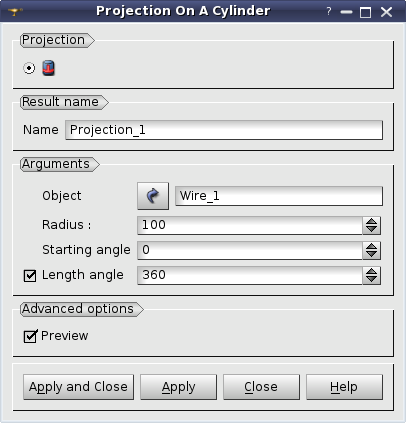
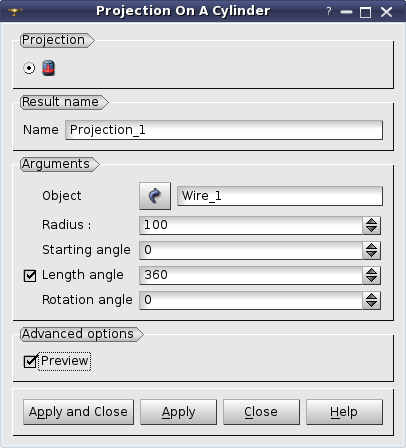
0022776: [CEA 1269] Project a wire or a face on a cylinder: add rotation angle

Changed region(s): [[0.0, 0.0, 1.0, 0.9835]]

diff --git a/src/GEOMGUI/GEOM_msg_en.ts b/src/GEOMGUI/GEOM_msg_en.ts
@@ -7572,5 +7572,9 @@ Do you want to create new material?</translation>
         <source>GEOM_PROJ_ON_CYL_LENGTH_ANGLE</source>
         <translation>Length angle</translation>
     </message>
+    <message>
+        <source>GEOM_PROJ_ON_CYL_ROTATION_ANGLE</source>
+        <translation>Rotation angle</translation>
+    </message>
 </context>
 </TS>

diff --git a/src/GEOM_SWIG/geomBuilder.py b/src/GEOM_SWIG/geomBuilder.py
@@ -9581,6 +9581,10 @@ class geomBuilder(object, GEOM._objref_GEOM_Gen):
         #         The angle in which to project the total length of the wire.
         #         If it is negative the projection is not scaled and natural
         #         wire length is kept for the projection.
+        #  @param theAngleRotation The desired angle in radians between
+        #         the tangent vector to the first curve at the first point of
+        #         the theObject's projection in 2D space and U-direction of
+        #         cylinder's 2D space.
         #  @param theName Object name; when specified, this parameter is used
         #         for result publication in the study. Otherwise, if automatic
         #         publication is switched on, default value is used for result name.
@@ -9592,6 +9596,7 @@ class geomBuilder(object, GEOM._objref_GEOM_Gen):
         #  @ref tui_projection "Example"
         def MakeProjectionOnCylinder (self, theObject, theRadius,
                                       theStartAngle=0.0, theAngleLength=-1.0,
+                                      theAngleRotation=0.0,
                                       theName=None):
             """
             Compute a wire or a face that represents a projection of the source
@@ -9608,6 +9613,10 @@ class geomBuilder(object, GEOM._objref_GEOM_Gen):
                         to project the total length of the wire. If it is negative the
                         projection is not scaled and natural wire length is kept for
                         the projection.
+                theAngleRotation The desired angle in radians between
+                        the tangent vector to the first curve at the first
+                        point of the theObject's projection in 2D space and
+                        U-direction of cylinder's 2D space.
                 theName Object name; when specified, this parameter is used
                         for result publication in the study. Otherwise, if automatic
                         publication is switched on, default value is used for result name.
@@ -9624,14 +9633,19 @@ class geomBuilder(object, GEOM._objref_GEOM_Gen):
             flagAngleLength = False
             if isinstance(theAngleLength,str):
                 flagAngleLength = True
-            theRadius, theStartAngle, theAngleLength, Parameters = ParseParameters(
-              theRadius, theStartAngle, theAngleLength)
+            flagAngleRotation = False
+            if isinstance(theAngleRotation,str):
+                flagAngleRotation = True
+            theRadius, theStartAngle, theAngleLength, theAngleRotation, Parameters = ParseParameters(
+              theRadius, theStartAngle, theAngleLength, theAngleRotation)
             if flagStartAngle:
                 theStartAngle = theStartAngle*math.pi/180.
             if flagAngleLength:
                 theAngleLength = theAngleLength*math.pi/180.
+            if flagAngleRotation:
+                theAngleRotation = theAngleRotation*math.pi/180.
             anObj = self.TrsfOp.MakeProjectionOnCylinder(theObject, theRadius,
-                theStartAngle, theAngleLength)
+                theStartAngle, theAngleLength, theAngleRotation)
             RaiseIfFailed("MakeProjectionOnCylinder", self.TrsfOp)
             anObj.SetParameters(Parameters)
             self._autoPublish(anObj, theName, "projection")

diff --git a/src/GEOM_I/GEOM_ITransformOperations_i.cc b/src/GEOM_I/GEOM_ITransformOperations_i.cc
@@ -1402,7 +1402,8 @@ GEOM::GEOM_Object_ptr GEOM_ITransformOperations_i::MakeProjectionOnCylinder
                                    (GEOM::GEOM_Object_ptr theObject,
                                     CORBA::Double         theRadius,
                                     CORBA::Double         theStartAngle,
-                                    CORBA::Double         theAngleLength)
+                                    CORBA::Double         theAngleLength,
+                                    CORBA::Double         theAngleRotation)
 {
   GEOM::GEOM_Object_var aGEOMObject;
 
@@ -1418,7 +1419,7 @@ GEOM::GEOM_Object_ptr GEOM_ITransformOperations_i::MakeProjectionOnCylinder
 
   //Perform the transformation
   Handle(GEOM_Object) aResObject = GetOperations()->MakeProjectionOnCylinder
-    (anObject, theRadius, theStartAngle, theAngleLength);
+    (anObject, theRadius, theStartAngle, theAngleLength, theAngleRotation);
 
   if (!GetOperations()->IsDone() || aResObject.IsNull()) {
     return aGEOMObject._retn();

diff --git a/src/TransformationGUI/TransformationGUI_ProjectionOnCylDlg.h b/src/TransformationGUI/TransformationGUI_ProjectionOnCylDlg.h
@@ -72,6 +72,7 @@ private:
   SalomeApp_DoubleSpinBox           *myStartAngleSpin;
   QCheckBox                         *myUseAngleLen;
   SalomeApp_DoubleSpinBox           *myAngleLenSpin;
+  SalomeApp_DoubleSpinBox           *myAngleRotSpin;
 
 };
 
